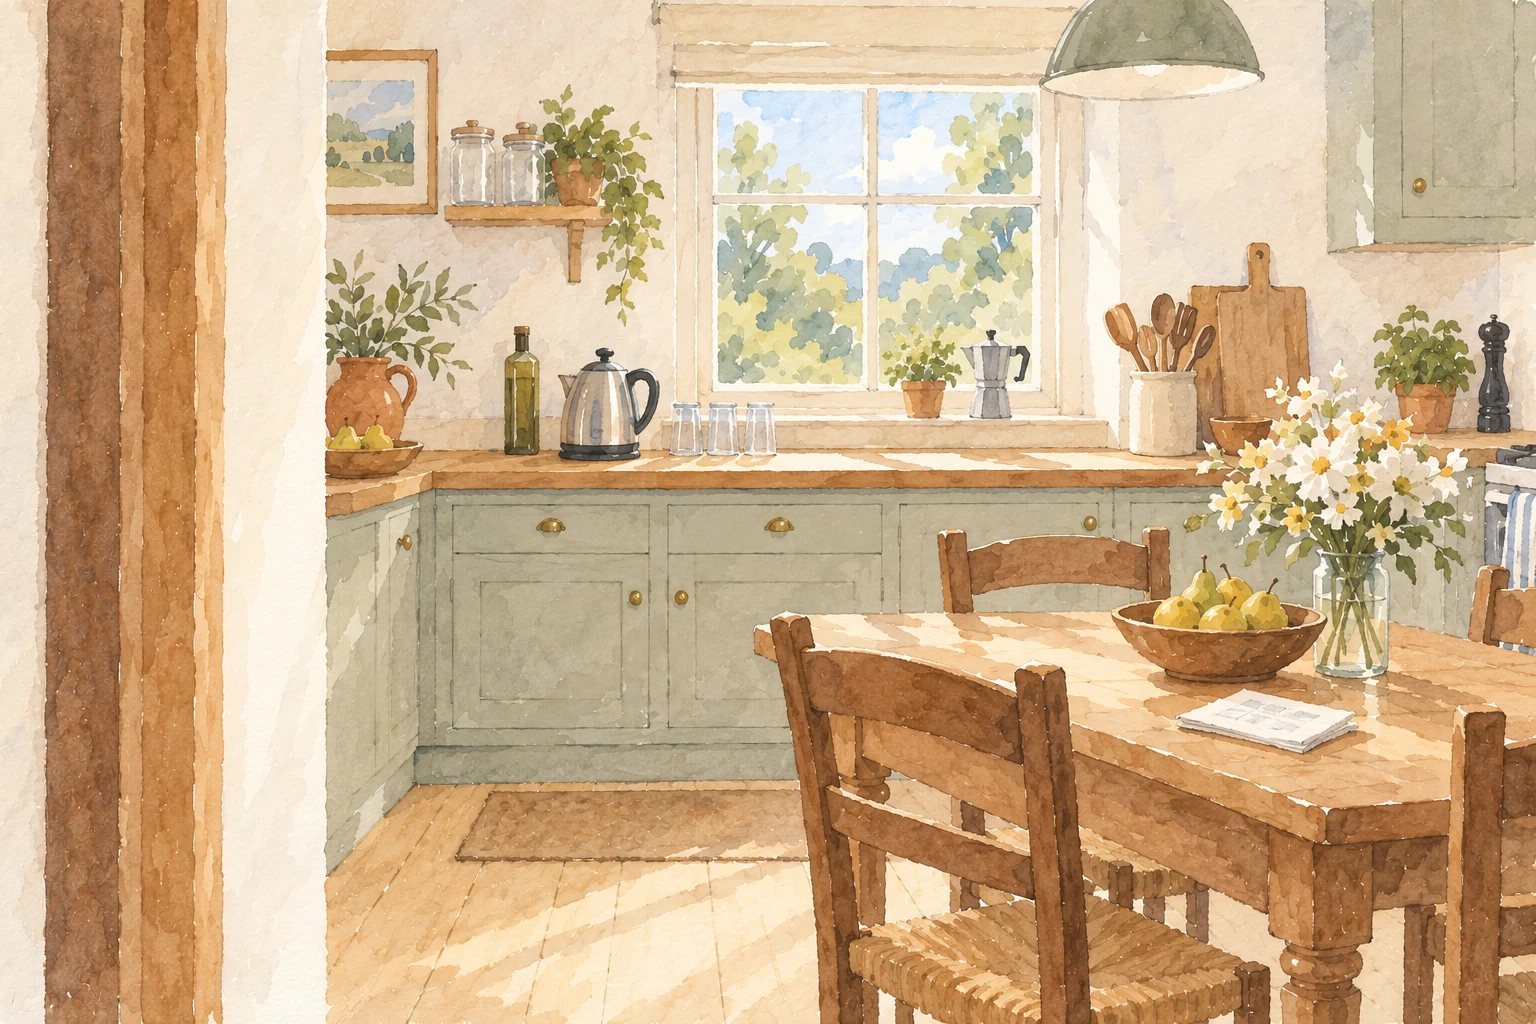
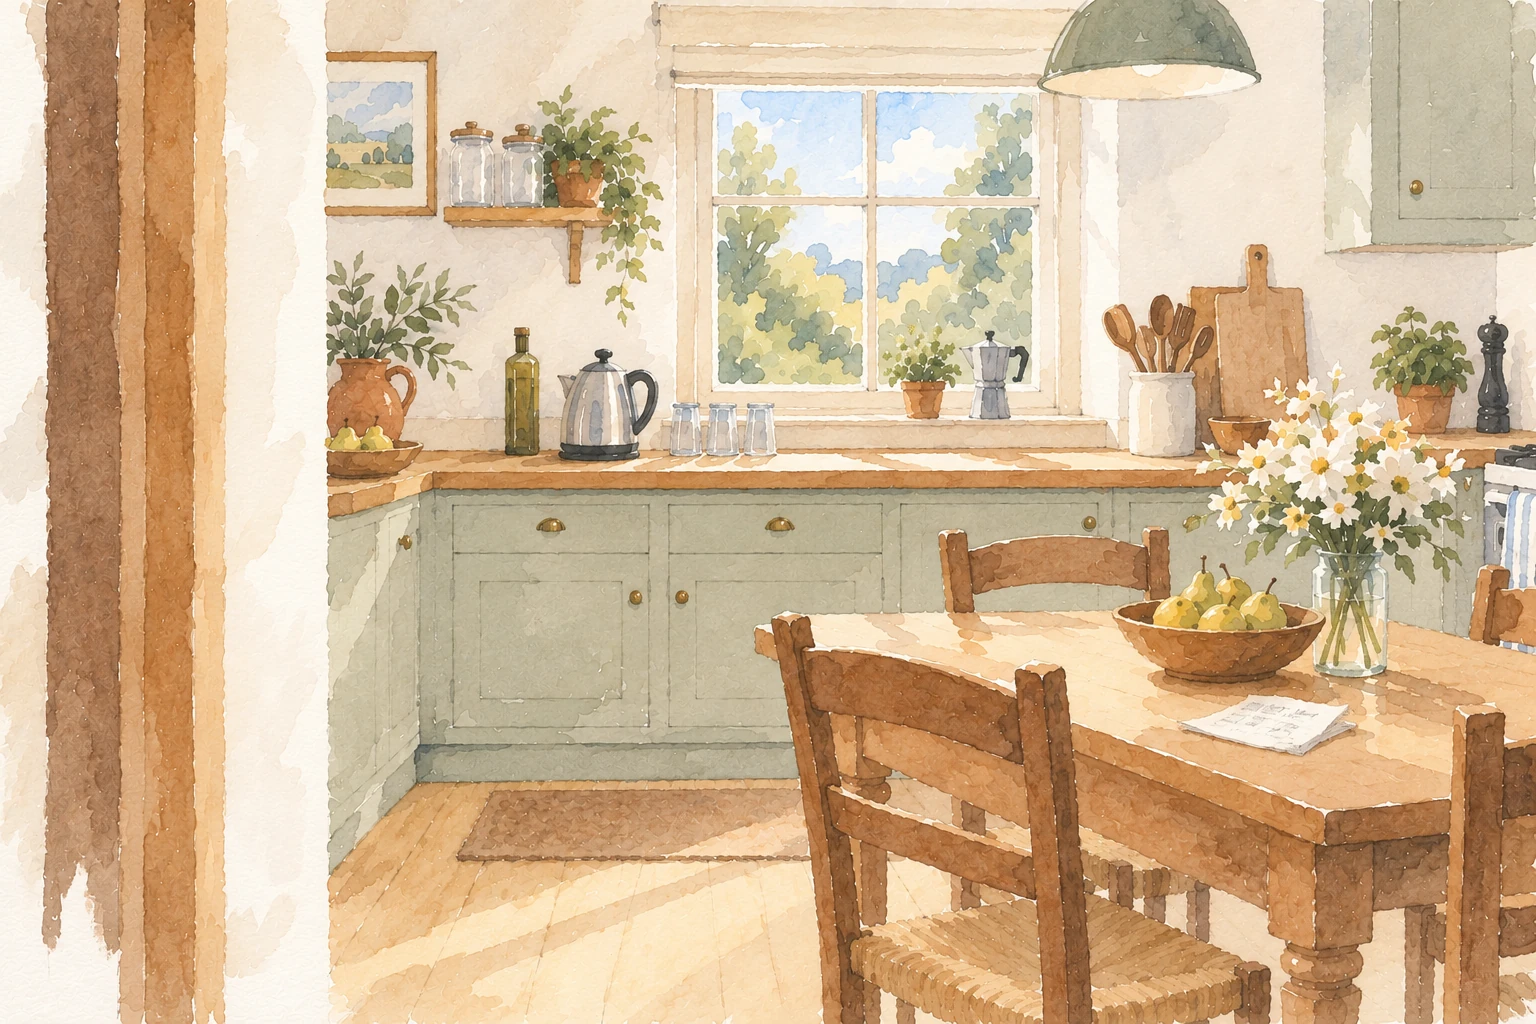
Restore the seven loose Farm House watercolor illustrations

diff --git a/farm-house/index.html b/farm-house/index.html
@@ -106,7 +106,7 @@ permalink: /farm-house/
         <p class="eyebrow">From The House</p>
         <h1 id="intro-title" tabindex="-1">The Farm House</h1>
         <button class="photograph" id="photo" aria-label="Enter the picture of the farm house">
-          <img src="assets/exterior-watercolor.webp?v=20260930-finished" width="1536" height="1024" alt="A watercolor view of a cared-for two-story farmhouse, with flowers on the veranda and a path through a green garden.">
+          <img src="assets/exterior-watercolor.webp?v=20261001-loose" width="1536" height="1024" alt="A watercolor view of a cared-for two-story farmhouse, with flowers on the veranda and a path through a green garden.">
           <span class="photo-inscription">The house in summer.</span>
         </button>
         <p class="intro-copy">The family still comes here in summer.<br>Today, no one is home.</p>
@@ -114,7 +114,7 @@ permalink: /farm-house/
       </section>
       <section class="visit" id="visit" aria-label="Explore the house" hidden>
         <div class="frame" id="frame">
-          <img class="scene-img" id="scene-image" src="assets/exterior-watercolor.webp?v=20260930-finished" width="1536" height="1024" alt="">
+          <img class="scene-img" id="scene-image" src="assets/exterior-watercolor.webp?v=20261001-loose" width="1536" height="1024" alt="">
           <div class="hotspots" id="hotspots"></div>
         </div>
         <div class="scene-under">
@@ -128,7 +128,7 @@ permalink: /farm-house/
         </div>
       </section>
       <section class="ending" id="ending" hidden aria-labelledby="ending-title">
-        <div class="ending-photo"><img src="assets/upstairs-watercolor.webp?v=20260930-finished" width="1536" height="1024" alt="A watercolor of the upstairs room, with her bed beside the window."></div>
+        <div class="ending-photo"><img src="assets/upstairs-watercolor.webp?v=20261001-loose" width="1536" height="1024" alt="A watercolor of the upstairs room, with her bed beside the window."></div>
         <p class="eyebrow">After the visit</p>
         <h1 id="ending-title" tabindex="-1">The upstairs room.</h1>
         <p>Everyone who came to the house<br>went upstairs before they left.</p>
@@ -161,8 +161,8 @@ permalink: /farm-house/
   (() => {
     'use strict';
     const $ = id => document.getElementById(id);
-    // The finished watercolor set, with an intermediate finish for the upstairs room.
-    const sceneAssets = { exterior:'assets/exterior-watercolor.webp?v=20260930-finished', hall:'assets/hall-watercolor.webp?v=20260930-finished', upstairs:'assets/upstairs-watercolor.webp?v=20260930-finished', kitchen:'assets/kitchen-watercolor.webp?v=20260930-finished', garden:'assets/garden-watercolor.webp?v=20260930-finished', stableYard:'assets/stable-yard-watercolor.webp?v=20260930-finished', stable:'assets/stable-watercolor.webp?v=20260930-finished' };
+    // The loose watercolor set uses the original upstairs painting as its style anchor.
+    const sceneAssets = { exterior:'assets/exterior-watercolor.webp?v=20261001-loose', hall:'assets/hall-watercolor.webp?v=20261001-loose', upstairs:'assets/upstairs-watercolor.webp?v=20261001-loose', kitchen:'assets/kitchen-watercolor.webp?v=20261001-loose', garden:'assets/garden-watercolor.webp?v=20261001-loose', stableYard:'assets/stable-yard-watercolor.webp?v=20261001-loose', stable:'assets/stable-watercolor.webp?v=20261001-loose' };
     const state = { scene: 'intro', visitedUpstairs: false, bed: false, walnuts: false, letter: false, hints: false, detail: null };
     const scenes = {
       exterior: {
@@ -245,7 +245,7 @@ permalink: /farm-house/
       veranda:{kicker:'Outside',title:'The veranda.',image:'exterior',position:'73% 60%',zoom:'280%',alt:'The veranda table and chairs beside flowering plants.',body:['The family uses the house in summer.','Their belongings are still here.'],actions:[['Look around','close']]},
       kettle:{kicker:'By the window',title:'The kettle.',image:'kitchen',position:'37% 40%',zoom:'440%',alt:'The metal kettle with its black handle, beside the window.',body:['The kettle stands beside a row of glasses.'],actions:[['Back to the kitchen','close']]},
       shoppingList:{kicker:'On the table',title:'The shopping list.',image:'kitchen',position:'92% 84%',mobilePosition:'92% 79%',zoom:'440%',alt:'A small folded shopping list on the wooden kitchen table.',body:['Beside “walnuts”, someone has written “for upstairs”.'],actions:[['Back to the kitchen','close']]},
-      robin:{kicker:'Erithacus rubecula',title:'A European robin.',image:'garden',position:'7% 76%',zoom:'440%',alt:'A European robin perched on the low stone wall, with an orange breast and brown back.',body:['Both males and females have an orange-red breast.','Robins often follow gardeners, picking up worms and grubs from newly turned soil.'],actions:[['Back to the garden','close']],source:{label:'RSPB bird guide',url:'https://www.rspb.org.uk/birds-and-wildlife/robin'}},
+      robin:{kicker:'Erithacus rubecula',title:'A European robin.',image:'garden',position:'7% 76%',zoom:'500%',alt:'A European robin perched on the low stone wall, with an orange breast and brown back.',body:['Both males and females have an orange-red breast.','Robins often follow gardeners, picking up worms and grubs from newly turned soil.'],actions:[['Back to the garden','close']],source:{label:'RSPB bird guide',url:'https://www.rspb.org.uk/birds-and-wildlife/robin'}},
       hydrangea:{kicker:'Hydrangea macrophylla',title:'A mophead hydrangea.',image:'garden',position:'100% 73%',zoom:'260%',alt:'Rounded pink hydrangea flower heads above broad green leaves.',body:['Mophead hydrangeas have rounded flower heads that last through much of the summer.','The large heads are clusters of small flowers.'],actions:[['Back to the garden','close']],source:{label:'RHS plant guide',url:'https://www.rhs.org.uk/plants/hydrangea/shrubby/growing-guide'}},
       window:{kicker:'Upstairs',title:'The farm.',image:'upstairs',position:'0% 10%',zoom:'280%',alt:'Part of the stable roof and a cultivated field beyond olive trees, seen through the upstairs window.',body:['She could see the stable and the field from her bed.','She kept up with the work on the farm.'],actions:[['Back to the room','close']]},
       bed:{kicker:'By the window',title:'Her bed.',image:'upstairs',position:'11% 56%',zoom:'220%',alt:'The grandmother’s neatly made bed by the window.',body:['This was the upstairs sitting room. Her bed stood here, beside the window.','She had been bedridden for as long as Doğu could remember. Everyone who visited came up to see her.'],actions:[['Back to the room','close']]},
